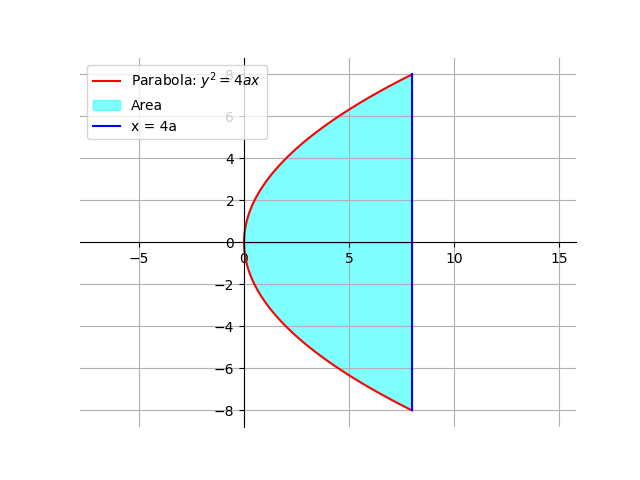
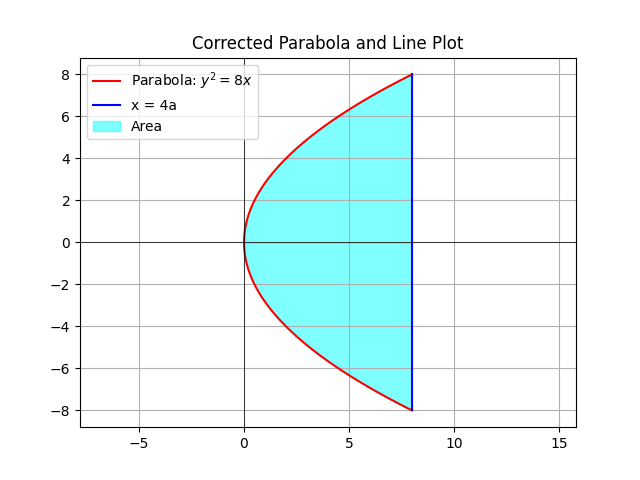
Add files via upload

diff --git a/questions/que3/code/plt.py b/questions/que3/code/plt.py
@@ -1,0 +1,53 @@
+import ctypes
+import numpy as np
+import matplotlib.pyplot as plt
+
+
+lib = ctypes.CDLL('./libgeometry.so')
+
+
+lib.parabola_gen.argtypes = [ctypes.POINTER(ctypes.c_double), ctypes.POINTER(ctypes.c_double), ctypes.c_double]
+lib.parabola_gen.restype = None
+
+lib.get_line.argtypes = [ctypes.POINTER(ctypes.c_double), ctypes.POINTER(ctypes.c_double)]
+lib.get_line.restype = None
+
+
+NUM = 100
+y_array = (ctypes.c_double * NUM)()
+x_array = (ctypes.c_double * NUM)()
+
+
+lib.parabola_gen(y_array, x_array, ctypes.c_double(8))
+
+y_points = np.array(list(y_array))
+x_points = np.array(list(x_array))
+
+plt.plot(x_points, y_points, label='Parabola: $y^2 = 8x$', color='r')
+
+
+A = (ctypes.c_double * 2)()
+B = (ctypes.c_double * 2)()
+
+
+lib.get_line(A, B)
+
+
+A_np = np.array([A[0], A[1]])
+B_np = np.array([B[0], B[1]])
+
+
+plt.plot([A_np[0], B_np[0]], [A_np[1], B_np[1]], label='x = 4a', color='b')
+
+
+plt.fill_between(x_points, y_points, where=(x_points > 0) & (x_points <= 8.0001), color='cyan', alpha=0.5, label='Area')
+plt.axhline(0, color='black', linewidth=0.5)
+plt.axvline(0, color='black', linewidth=0.5)
+plt.legend(loc='best')
+plt.grid(True)
+plt.axis('equal')
+plt.title('Corrected Parabola and Line Plot')
+
+
+plt.show()
+

diff --git a/questions/que3/code/geometry.c b/questions/que3/code/geometry.c
@@ -1,0 +1,23 @@
+#include <math.h>
+
+#define NUM 100
+
+typedef struct {
+    double x;
+    double y;
+} Vector2D;
+
+extern void parabola_gen(double y[], double x[], double flen) {
+    for (int i = 0; i < NUM; i++) {
+        y[i] = -flen + i * (2 * flen / (NUM - 1));
+        x[i] = (y[i] * y[i]) / (4 * 2);            
+    }
+}
+
+extern void get_line(Vector2D* A, Vector2D* B) {
+    A->x = 8;
+    A->y = -8;
+    B->x = 8;
+    B->y = 8;
+}
+
